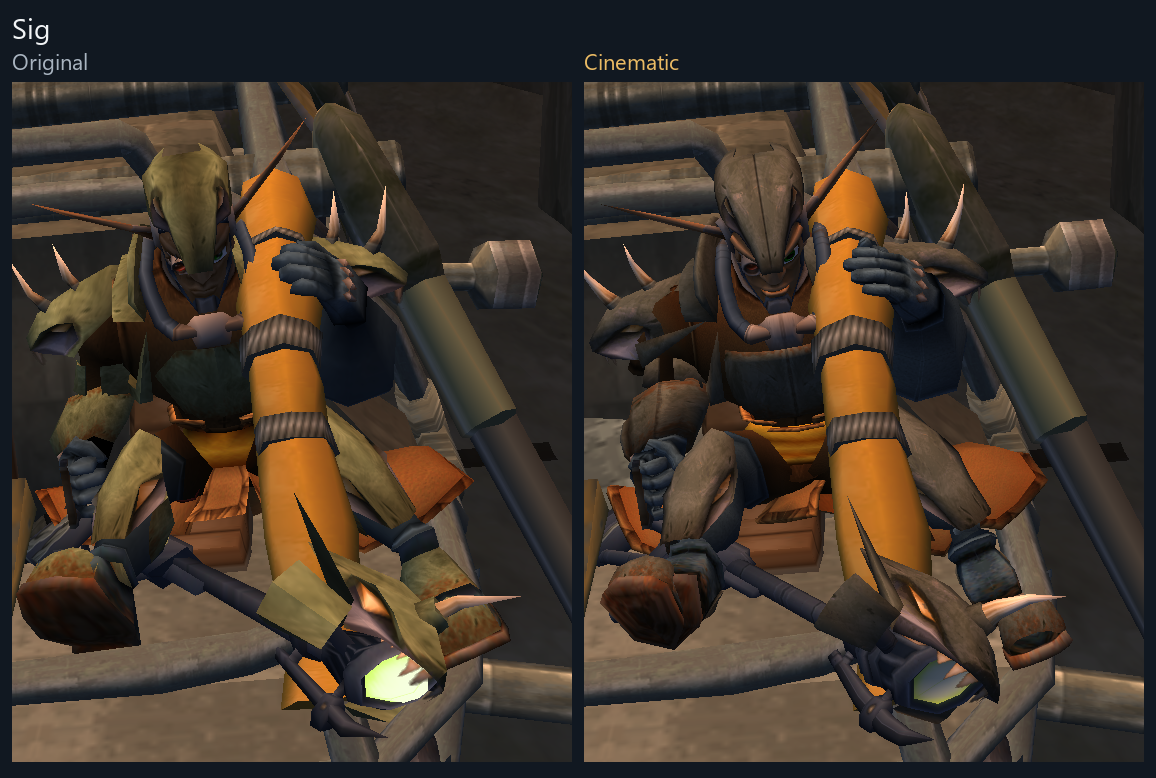
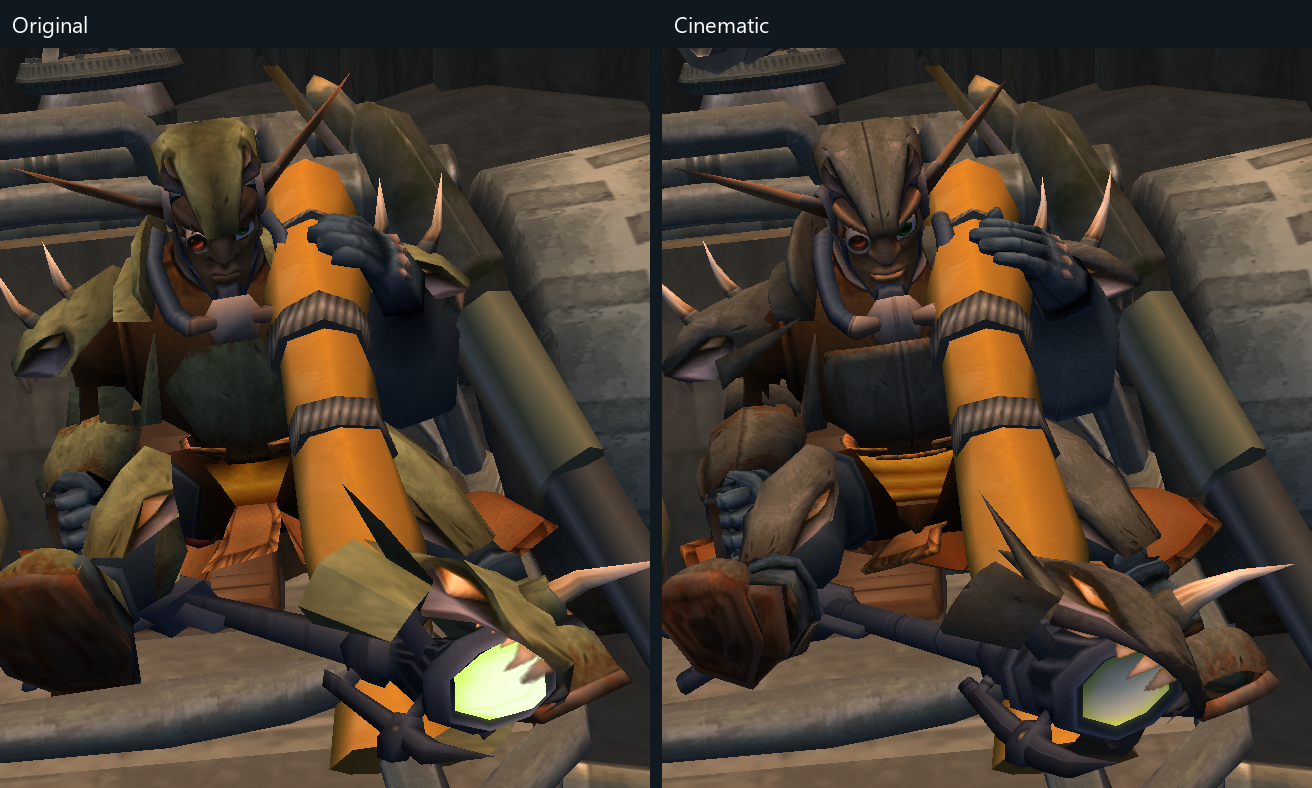
fix: correct Kleiver and Sig rider clothing

diff --git a/docs/comparisons/jak3.html b/docs/comparisons/jak3.html
@@ -41,15 +41,16 @@
 <figure><figcaption>Seated, side</figcaption><a href="jak3/damas-0.webp?v=ef2ca6089d5b"><img src="jak3/damas-0.webp?v=ef2ca6089d5b" width="1776" height="888" alt="Damas, Seated, side: Original left, Cinematic right" loading="lazy" decoding="async"></a></figure>
 </section>
 <section id="kleiver"><h2>Kleiver</h2>
-<figure><figcaption>Driving, front</figcaption><a href="jak3/kleiver-0.webp?v=fb30a37a35c6"><img src="jak3/kleiver-0.webp?v=fb30a37a35c6" width="1076" height="878" alt="Kleiver, Driving, front: Original left, Cinematic right" loading="lazy" decoding="async"></a></figure>
-<figure><figcaption>Driving, side</figcaption><a href="jak3/kleiver-1.webp?v=52fc78a9b41d"><img src="jak3/kleiver-1.webp?v=52fc78a9b41d" width="1676" height="668" alt="Kleiver, Driving, side: Original left, Cinematic right" loading="lazy" decoding="async"></a></figure>
+<figure><figcaption>Driving, front</figcaption><a href="jak3/kleiver-0.webp?v=2a88d3e89a7e"><img src="jak3/kleiver-0.webp?v=2a88d3e89a7e" width="1072" height="868" alt="Kleiver, Driving, front: Original left, Cinematic right" loading="lazy" decoding="async"></a></figure>
+<figure><figcaption>Driving, side</figcaption><a href="jak3/kleiver-1.webp?v=34ef20f19115"><img src="jak3/kleiver-1.webp?v=34ef20f19115" width="1492" height="668" alt="Kleiver, Driving, side: Original left, Cinematic right" loading="lazy" decoding="async"></a></figure>
 </section>
 <section id="ashelin"><h2>Ashelin</h2>
 <figure><figcaption>Front</figcaption><a href="jak3/ashelin-0.webp?v=698787377889"><img src="jak3/ashelin-0.webp?v=698787377889" width="836" height="858" alt="Ashelin, Front: Original left, Cinematic right" loading="lazy" decoding="async"></a></figure>
 </section>
 <section id="sig"><h2>Sig</h2>
-<figure><figcaption>Seated, front</figcaption><a href="jak3/sig-0.webp?v=61c144ced143"><img src="jak3/sig-0.webp?v=61c144ced143" width="1156" height="778" alt="Sig, Seated, front: Original left, Cinematic right" loading="lazy" decoding="async"></a></figure>
-<figure><figcaption>Seated, side</figcaption><a href="jak3/sig-1.webp?v=6ddc5fdefa4b"><img src="jak3/sig-1.webp?v=6ddc5fdefa4b" width="1436" height="828" alt="Sig, Seated, side: Original left, Cinematic right" loading="lazy" decoding="async"></a></figure>
+<p>Rider Sig keeps his gameplay undergarment beneath the cinematic armor.</p>
+<figure><figcaption>Seated, front</figcaption><a href="jak3/sig-0.webp?v=4f8e432212c7"><img src="jak3/sig-0.webp?v=4f8e432212c7" width="1312" height="788" alt="Sig, Seated, front: Original left, Cinematic right" loading="lazy" decoding="async"></a></figure>
+<figure><figcaption>Seated, side</figcaption><a href="jak3/sig-1.webp?v=efff43839022"><img src="jak3/sig-1.webp?v=efff43839022" width="1732" height="678" alt="Sig, Seated, side: Original left, Cinematic right" loading="lazy" decoding="async"></a></figure>
 <figure><figcaption>Convoy, front</figcaption><a href="jak3/sig-2.webp?v=673464190eaa"><img src="jak3/sig-2.webp?v=673464190eaa" width="1156" height="718" alt="Sig, Convoy, front: Original left, Cinematic right" loading="lazy" decoding="async"></a></figure>
 </section>
 <section id="jinx"><h2>Jinx</h2>

diff --git a/builder/stages/build_npc_expansion.py b/builder/stages/build_npc_expansion.py
@@ -188,6 +188,64 @@ def torn_hand_transform(target, anchor, ls, hs):
     return out
 
 
+def fit_rider_arm_weights(source, low_name, ls, lm, li, lv, lt, ht, selections, used):
+    """Carry the native sleeve bend field onto the cinematic rider's arm skin."""
+    from scipy.spatial import cKDTree
+    dst=source.view('<f4').reshape(-1,16)
+    native=np.frombuffer(lv,'<f4').reshape(-1,16)
+    nb=np.frombuffer(lv,'u1').reshape(-1,64)
+    groups=[j['id'] for n,j in ls.items() if re.fullmatch('[LR](shoulder|elbow|ArmorB?)',n)]
+    influence=np.sum(dst[:,8:11]*np.isin(source[:,60:63],groups),axis=1)
+    body=[]
+    for material in ('klever-arm','klever-undershirt','klever-chest'):
+        for effect in lm['effects']:
+            for d in map(DRAW.unpack,effect['draws']):
+                if lt[d[1]]['name']==material:
+                    ids=li[d[3]:d[3]+d[4]]
+                    body.append(ids.reshape(-1,3) if d[6] else triangles(ids))
+    faces=np.concatenate(body);tri=native[faces,:3].astype(float)
+    tree=cKDTree(tri.mean(1));report=[]
+    for material,threshold,max_distance in [('klever-arm',0.0,256.0),('klever-undershirt',0.01,256.0)]:
+        ids=[ix[ix!=0xffffffff] for _,d,ix in selections if ht[d[1]]['name']==material]
+        if not ids:continue
+        rows=np.searchsorted(used,np.unique(np.concatenate(ids)))
+        rows=rows[influence[rows]>threshold]
+        if not len(rows):continue
+        _,near=tree.query(dst[rows,:3].astype(float),k=min(32,len(tri)))
+        if near.ndim==1:near=near[:,None]
+        t=tri[near];p=dst[rows,None,:3].astype(float)
+        a,b,c=t[:,:,0],t[:,:,1],t[:,:,2];ab=b-a;ac=c-a;ap=p-a
+        dot=lambda x,y:np.sum(x*y,axis=-1)
+        aa,cc,dd=dot(ab,ab),dot(ab,ac),dot(ac,ac);det=aa*dd-cc*cc
+        u=np.divide(dd*dot(ap,ab)-cc*dot(ap,ac),det,out=np.zeros_like(det),where=abs(det)>1e-12)
+        v=np.divide(aa*dot(ap,ac)-cc*dot(ap,ab),det,out=np.zeros_like(det),where=abs(det)>1e-12)
+        bary=np.stack([1-u-v,u,v],axis=-1);q=a+u[:,:,None]*ab+v[:,:,None]*ac
+        dist=np.where((bary>=0).all(-1)&(abs(det)>1e-12),dot(q-p,q-p),np.inf)
+        for x,y,ix,iy in [(a,b,0,1),(a,c,0,2),(b,c,1,2)]:
+            edge=y-x;den=dot(edge,edge)
+            f=np.clip(np.divide(dot(p-x,edge),den,out=np.zeros_like(den),where=den>1e-12),0,1)
+            q=x+f[:,:,None]*edge;d=dot(q-p,q-p);better=d<dist
+            edge_bary=np.zeros_like(bary);edge_bary[:,:,ix]=1-f;edge_bary[:,:,iy]=f
+            bary=np.where(better[:,:,None],edge_bary,bary);dist=np.minimum(dist,d)
+        choice=dist.argmin(1);rr=np.arange(len(rows));distance=np.sqrt(dist[rr,choice])
+        if np.max(distance)>max_distance:raise ValueError((low_name,material,'arm surface correspondence too distant'))
+        for row,face,factors in zip(rows,faces[near[rr,choice]],bary[rr,choice]):
+            combined={}
+            for vi,factor in zip(face,factors):
+                for jid,weight in zip(nb[vi,60:63],native[vi,8:11]):
+                    if weight*factor>1e-8:
+                        combined[int(jid)]=combined.get(int(jid),0)+float(weight*factor)
+            chosen=sorted(combined.items(),key=lambda item:-item[1])[:3]
+            total=sum(weight for _,weight in chosen)
+            source[row,60:63]=0;dst[row,8:11]=0
+            for k,(jid,weight) in enumerate(chosen):
+                source[row,60+k]=jid;dst[row,8+k]=weight/total
+        report.append(dict(material=material,vertices=len(rows),
+                           nativeSurfaceDistanceMax=float(np.max(distance)),
+                           nativeSurfaceDistanceMedian=float(np.median(distance))))
+    return report
+
+
 def fit_torn_hand_weights(source, original_joints, hs, ls, lm, li, lv):
     """Transfer the native knuckle bend field onto the fitted cinematic hands."""
     from scipy.spatial import cKDTree
@@ -418,6 +476,7 @@ def build_one(low_name, high_name, *, source_dir=None, submit_all_joints=False,
             sf[sword_rows,4:7]=beforenorm[sword_rows]@rotation.T
             torso_fit['swordAttachment']='rigid fit to native chest-mounted handle'
         hand_fit=fit_torn_hand_weights(source,original_joints,hs,ls,lm,li,lv) if low_name=='bt-torn-lod0' else None
+        rider_arm_fit=fit_rider_arm_weights(source,low_name,ls,lm,li,lv,lt,ht,selections,used) if low_name=='kleever-rider-lod0' else None
         assert np.all(np.isfinite(sf[:,:3])) and np.all(np.isfinite(sf[:,4:7]))
         # Catch accidental matrix-ID remapping collisions or unit errors before
         # a staged asset can be accepted for a runtime test.
@@ -522,12 +581,61 @@ def build_one(low_name, high_name, *, source_dir=None, submit_all_joints=False,
         report['eye_surface_transfer']=eye_report
         report['torso_fit']=torso_fit
         report['hand_fit']=hand_fit
+        report['rider_arm_fit']=rider_arm_fit
         report['static_eye_layers']=['iris','pupil'] if static_eye_pupil else None
         report['requires_full_joint_submission']=submit_all_joints
         report['matrix_ids_within_original_submission']=not submit_all_joints
         reports.append(report)
         print(filename,low_name,report['triangles'],'triangles',native_kept,'native preserved triangles',removed_tris,'staff triangles removed')
     return reports
+
+def fit_sig_rider_garment(generated_path, native_path, output_path):
+    """Keep Sig's native rider garment under the cinematic shoulder armor."""
+    generated_path, native_path, output_path = map(Path, (generated_path, native_path, output_path))
+    if output_path.resolve() in (generated_path.resolve(), native_path.resolve()) or output_path.exists():
+        raise ValueError('Sig garment output must be a new file separate from its inputs')
+    name = 'sig-rider-lod0'
+    raw, native_raw = decompress(generated_path), decompress(native_path)
+    current, native = model(raw, name), model(native_raw, name)
+    _, indices, _, vertices = buffers(raw, name)
+    _, native_indices, _, native_vertices = buffers(native_raw, name)
+    tx, _ = textures(raw)
+    native_tx, _ = textures(native_raw)
+    if (vertices[:len(native_vertices)] != native_vertices or
+            not np.array_equal(indices[:len(native_indices)], native_indices) or
+            len(tx) < len(native_tx) or
+            any(texture_bytes(a) != texture_bytes(z) for a, z in zip(tx, native_tx))):
+        raise ValueError('Sig native vertex, index or texture prefix does not match')
+
+    def find_draw(mesh, texture_list, texture_name):
+        return [(ei, di, draw) for ei, effect in enumerate(mesh['effects'])
+                for di, draw in enumerate(effect['draws'])
+                if texture_list[DRAW.unpack(draw)[1]]['name'] == texture_name]
+
+    current_draw = find_draw(current, tx, 'sig-undergarments')
+    native_draw = find_draw(native, native_tx, 'sig2-undergarments')
+    if len(current_draw) != 1 or len(native_draw) != 1 or current_draw[0][0] != 2 or native_draw[0][0] != 2:
+        raise ValueError('Unexpected Sig rider garment draw layout')
+    fitted = copy.deepcopy(current)
+    ei, di, _ = current_draw[0]
+    fitted['effects'][ei]['draws'][di] = native_draw[0][2]
+    result = raw[:current['start']] + serialize(fitted) + raw[current['end']:]
+    checked = model(result, name)
+    _, checked_indices, _, checked_vertices = buffers(result, name)
+    checked_tx, _ = textures(result)
+    if (checked_vertices != vertices or not np.array_equal(checked_indices, indices) or
+            len(checked_tx) != len(tx) or
+            any(texture_bytes(a) != texture_bytes(z) for a, z in zip(checked_tx, tx)) or
+            serialize(checked) != serialize(fitted) or
+            raw[:current['start']] != result[:checked['start']] or
+            raw[current['end']:] != result[checked['end']:]):
+        raise ValueError('Sig garment replacement changed unrelated packed content')
+    compress(output_path, result)
+    if decompress(output_path) != result:
+        raise ValueError('Sig garment output failed round-trip validation')
+    return {'model': name, 'nativeDraw': 'sig2-undergarments',
+            'cinematicDraw': 'sig-undergarments', 'effect': ei}
+
 
 def build(data_dir=None,output_dir=None,metadata_path=None,report_path=None,animated_eyes=False):
     global CINEMATIC_EYES

diff --git a/builder/build.py b/builder/build.py
@@ -308,6 +308,12 @@ def build(data,tools,work,output,config):
     eye_source=work/'cinematic-eyes.gc'
     eye_report=generate_eyes(data,eye_source,npc_output)
     (work/'cinematic-eyes-report.json').write_text(json.dumps(eye_report,indent=2))
+    from build_npc_expansion import fit_sig_rider_garment
+    sig_path=npc_output/'lwassig.fr3'
+    sig_fitted=work/'lwassig-garment-fit.fr3'
+    sig_report=fit_sig_rider_garment(sig_path,data/'out/jak3/fr3/lwassig.fr3',sig_fitted)
+    os.replace(sig_fitted,sig_path)
+    (work/'sig-garment-validation.json').write_text(json.dumps(sig_report,indent=2))
     drawable_source=project/'goal_src/jak3/engine/process-drawable/process-drawable.gc'
     drawable_source.write_text(patch_eye_dispatch(drawable_source.read_text()))
     (work/'npc-validation.json').write_text(json.dumps(npc_reports,indent=2))

diff --git a/builder/launcher_install.py b/builder/launcher_install.py
@@ -78,9 +78,15 @@ def free_space_check(mod, data, scratch, game_config=None, minimum_bytes=1024**3
 
 
 def scratch_parent(mod):
-    parent = mod.parents[4].parent/'OpenGOAL-Cinematic-Builds'
+    override = os.environ.get('CINEMATIC_WORK_ROOT')
+    if override:
+        parent = Path(override)
+        if not parent.is_absolute():
+            raise ValueError('CINEMATIC_WORK_ROOT must be an absolute directory path.')
+    else:
+        parent = mod.parents[4].parent/'OpenGOAL-Cinematic-Builds'
     installer.reject_reparse(parent)
-    parent.mkdir(exist_ok=True)
+    parent.mkdir(parents=True, exist_ok=True)
     return parent
 
 

diff --git a/docs/verification.md b/docs/verification.md
@@ -1,12 +1,14 @@
 # Jak 3 verification
 
-Release `0.3.0` targets Windows x64, [Apple Silicon macOS](macos.md) and [experimental Linux x64](linux.md) with official OpenGOAL **v0.3.9**. The launcher protocol was checked with **v2.11.2**. Intel Macs are unsupported. Real Linux launcher import, model conversion and gameplay are not yet validated.
+Release `0.3.1` targets Windows x64, [Apple Silicon macOS](macos.md) and [experimental Linux x64](linux.md) with official OpenGOAL **v0.3.9**. The launcher protocol was checked with **v2.11.2**. Intel Macs are unsupported. Real Linux launcher import, model conversion and gameplay are not yet validated.
 
-## Current source checks, 2026-11-11
+## Source checks
 
-The game-specific suite completed 46 tests on Apple Silicon: 42 passed and four Windows-only cases were skipped. Twelve portable filesystem fixtures also passed on this Mac. All 13 Windows filesystem fixtures remain configured for native Windows checks.
+On 2026-11-11, the game-specific suite completed 46 tests on Apple Silicon: 42 passed and four Windows-only cases were skipped. Twelve portable filesystem fixtures also passed on this Mac.
 
-Coverage includes wrong-game inputs, corrupt packages, source inventories, staged writes, rollback, interrupted transactions, hardlinks and lock ownership. Native Windows junction, path and child-process checks require the Windows run. These source checks are separate from player testing.
+On Windows, all 46 tests and 13 installer filesystem checks passed on 2026-11-15.
+
+Coverage includes wrong-game inputs, corrupt packages, source inventories, staged writes, rollback, interrupted transactions, hardlinks and lock ownership. The Windows checks also cover junctions, paths and child-process cleanup. These source checks are separate from player testing.
 
 [`builder/source-files.json`](../builder/source-files.json) separates the complete `sourceFiles` developer ZIP from the smaller `runtimeFiles` installer source set. Package checks verify each manifest against its own file set. They also check pinned dependencies, runtime versions, Windows adapter provenance and Mac/Linux executable modes. Game models and textures are excluded from distributable source and installer archives.
 
@@ -26,6 +28,8 @@ Release assembly passed with both builder and standard archive names. Checks cov
 
 The builder covers sixteen replacement placements across twelve model names. It retains the original convoy Torn. Checks cover geometry, morphs, textures, Dark shader changes and scoped archive changes. Native text, minimap and speedrun fixes remain part of the original installation.
 
+The 0.3.1 rider corrections were checked with Windows EU v0.3.9: Kleiver uses the native sleeve bend weights on his cinematic arms, and Sig retains the original rider garment beneath cinematic armor. Matched front and side captures and representative rider poses were inspected. A complete EU conversion reproduced the tested Sig garment and accepted Kleiver model data. The Sig garment stage also passed structural checks against the available USA model data; a complete new USA conversion and USA gameplay were not verified. These corrections have not had a new macOS or Linux gameplay session.
+
 The builder checks original tools, disc revisions and consumed assets before conversion. It validates the generated model data and records payload checksums. Earlier conversions covered the supported EU and USA profiles.
 
 ## Historical player coverage
@@ -39,7 +43,7 @@ These checks were recorded before the 2026-11-11 repository split.
 
 The [gallery](comparisons/jak3.md) contains 25 matched comparisons for Jak 3. Lossless compression checks preserved the decoded RGB pixels and image dimensions. The [comparison manifest](comparisons/manifest.json) records file hashes and capture details.
 
-Before-and-after images, including launcher thumbnails, must use unchanged screenshot pixels. Only cropping, placement and lossless compression are allowed. Do not use image generation, redraw details, retouch colours or upscale captures. Thumbnail source hashes and crop rectangles are recorded in [`mod-source-provenance.json`](../mod-source-provenance.json).
+Before-and-after images, including launcher thumbnails, must use unchanged screenshot pixels. Only cropping, placement and lossless compression are allowed. Do not use image generation, redraw details, retouch colors or upscale captures. Thumbnail source hashes and crop rectangles are recorded in [`mod-source-provenance.json`](../mod-source-provenance.json).
 
 ## Limits
 

diff --git a/README.md b/README.md
@@ -10,11 +10,13 @@ Play Jak 3 with the cinematic character models. Includes Jak, Daxter, transforma
 
 ## Why I made this
 
-Jak and Daxter is probably my favourite trilogy of all time, and I spent countless hours playing these games when they first came out on PS2. I was already replaying them through PCSX2 when I found out about OpenGOAL, so you can imagine how happy I was.
+Jak and Daxter is probably my favorite trilogy of all time, and I spent countless hours playing these games when they first came out on PS2. I was already replaying them through PCSX2 when I found out about OpenGOAL, so you can imagine how happy I was.
 
 Seeing the games in widescreen and at higher resolutions got me wondering what they would look like with the more detailed cutscene models during normal gameplay. I first asked about this on the OpenGOAL Discord [on 2 August 2024](https://discord.com/channels/756287461377703987/949828064026714174/1268810551509909575), and the replies explained why it wouldn’t be a simple swap: different skeletons, missing eye and facial animation, and a model importer that couldn’t bring over the facial blend shapes.
 
 Two years later, I finally decided to have a go at making it work myself, and there turned out to be quite a bit more to it than swapping the models. I had to adapt them to the gameplay skeletons, fit their facial shapes to the games’ existing expression controls and rebuild the model data needed to make those deformations work. Eyes, jaw and brow movement, hands and clothing needed their own attention too.
+
+For some characters, I combined cinematic models with gameplay parts or textures where I felt it better preserved their in-game appearance.
 
 It took quite a bit of work, but here we are! These are Naughty Dog’s original models from the games, adapted for gameplay, and I hope you enjoy them as much as I do.
 
@@ -83,13 +85,13 @@ The installer builds the replacements from your installed game files. No game mo
 
 ## Development
 
-Based on [OG-Mod-Base](https://github.com/OpenGOAL-Mods/OG-Mod-Base) and [OpenGOAL](https://github.com/open-goal/jak-project). The template release metadata and licences are retained; the game uses the official installed engine and tools. Model conversion is in `builder/`; the mod uses the pinned official runtime.
+Based on [OG-Mod-Base](https://github.com/OpenGOAL-Mods/OG-Mod-Base) and [OpenGOAL](https://github.com/open-goal/jak-project). The template release metadata and licenses are retained; the game uses the official installed engine and tools. Model conversion is in `builder/`; the mod uses the pinned official runtime.
 
 Run `python tools/verify_mod_repository.py` and `python tools/run_tests.py` for verification. On macOS, use `TMPDIR=/private/tmp` when running the regression suite.
 
 The **Cut Mod Release** action builds the Windows, Apple Silicon and experimental Linux x64 packages. It uses the template metadata format and leaves the release as a draft for review.
 
-Original mod code: [MOD-LICENSE](MOD-LICENSE). Upstream code keeps its own licences.
+Original mod code: [MOD-LICENSE](MOD-LICENSE). Upstream code keeps its own licenses.
 
 Developed by [@jacopobassan](https://jacopobassan.me)
 

diff --git a/docs/building.md b/docs/building.md
@@ -9,7 +9,7 @@ This repository contains only the Jak 3 builder and its required helpers. It use
 - `sourceFiles`: the complete developer ZIP, including package tools and guides.
 - `runtimeFiles`: the smaller source set embedded in the installer. It excludes package tools, compiler source and developer guides.
 
-Both sets include only this game's code and required resources. [`mod-source-provenance.json`](../mod-source-provenance.json) records their file hashes and source history. Code licences do not cover game assets. Generated models and extracted data must stay local.
+Both sets include only this game's code and required resources. [`mod-source-provenance.json`](../mod-source-provenance.json) records their file hashes and source history. Code licenses do not cover game assets. Generated models and extracted data must stay local.
 
 ## Checks
 
@@ -49,6 +49,6 @@ Collect all three resulting archives in `dist/input` on one machine. Then use a 
 python tools/prepare_mod_release.py --input dist/input --output dist/release
 ```
 
-Version `0.3.0` produces `windows-v0.3.0.zip`, `macos-arm64-v0.3.0.tar.gz`, `linux-v0.3.0.tar.gz`, `source-v0.3.0.zip`, `metadata.json`, `release-manifest.json` and `SHA256SUMS.txt`. Metadata declares only `jak3`.
+Version `0.3.1` produces `windows-v0.3.1.zip`, `macos-arm64-v0.3.1.tar.gz`, `linux-v0.3.1.tar.gz`, `source-v0.3.1.zip`, `metadata.json`, `release-manifest.json` and `SHA256SUMS.txt`. Metadata declares only `jak3`.
 
-The manual **Cut Mod Release** workflow builds all three platforms, verifies the assets, and creates or refreshes a draft. On Ubuntu 24.04 x64, it also runs the [asset-free Linux installer checks](linux.md#developer-checks) against the final archive. Publication requires a separate approval. Original mod code uses [MOD-LICENSE](../MOD-LICENSE). Third-party code and bundled dependencies retain their own licence notices.
+The manual **Cut Mod Release** workflow builds all three platforms, verifies the assets, and creates or refreshes a draft. On Ubuntu 24.04 x64, it also runs the [asset-free Linux installer checks](linux.md#developer-checks) against the final archive. The draft can be checked before publication. Original mod code uses [MOD-LICENSE](../MOD-LICENSE). Third-party code and bundled dependencies retain their own license notices.

diff --git a/docs/linux.md b/docs/linux.md
@@ -2,7 +2,7 @@
 
 Linux x64 support is experimental. Real Linux launcher import, model conversion and gameplay are not yet validated.
 
-Use `linux-v0.3.0.tar.gz` from [Releases](https://github.com/JacopoBassan/the-cinematic-legacy-jak3/releases) with official OpenGOAL **v0.3.9**. Python and its dependencies are included.
+Use `linux-v0.3.1.tar.gz` from [Releases](https://github.com/JacopoBassan/the-cinematic-legacy-jak3/releases) with official OpenGOAL **v0.3.9**. Python and its dependencies are included.
 
 Supported EU and USA disc revisions are listed in [installation](installation.md). Setup checks the exact tools and consumed files.
 

diff --git a/docs/comparisons/jak3.md b/docs/comparisons/jak3.md
@@ -72,6 +72,8 @@ Original left, Cinematic right. In-game screenshots.
 
 ## Sig
 
+Rider Sig keeps his gameplay undergarment beneath the cinematic armor.
+
 **Seated, front**
 
 ![Sig, Seated, front: Original left, Cinematic right](jak3/sig-0.webp)
